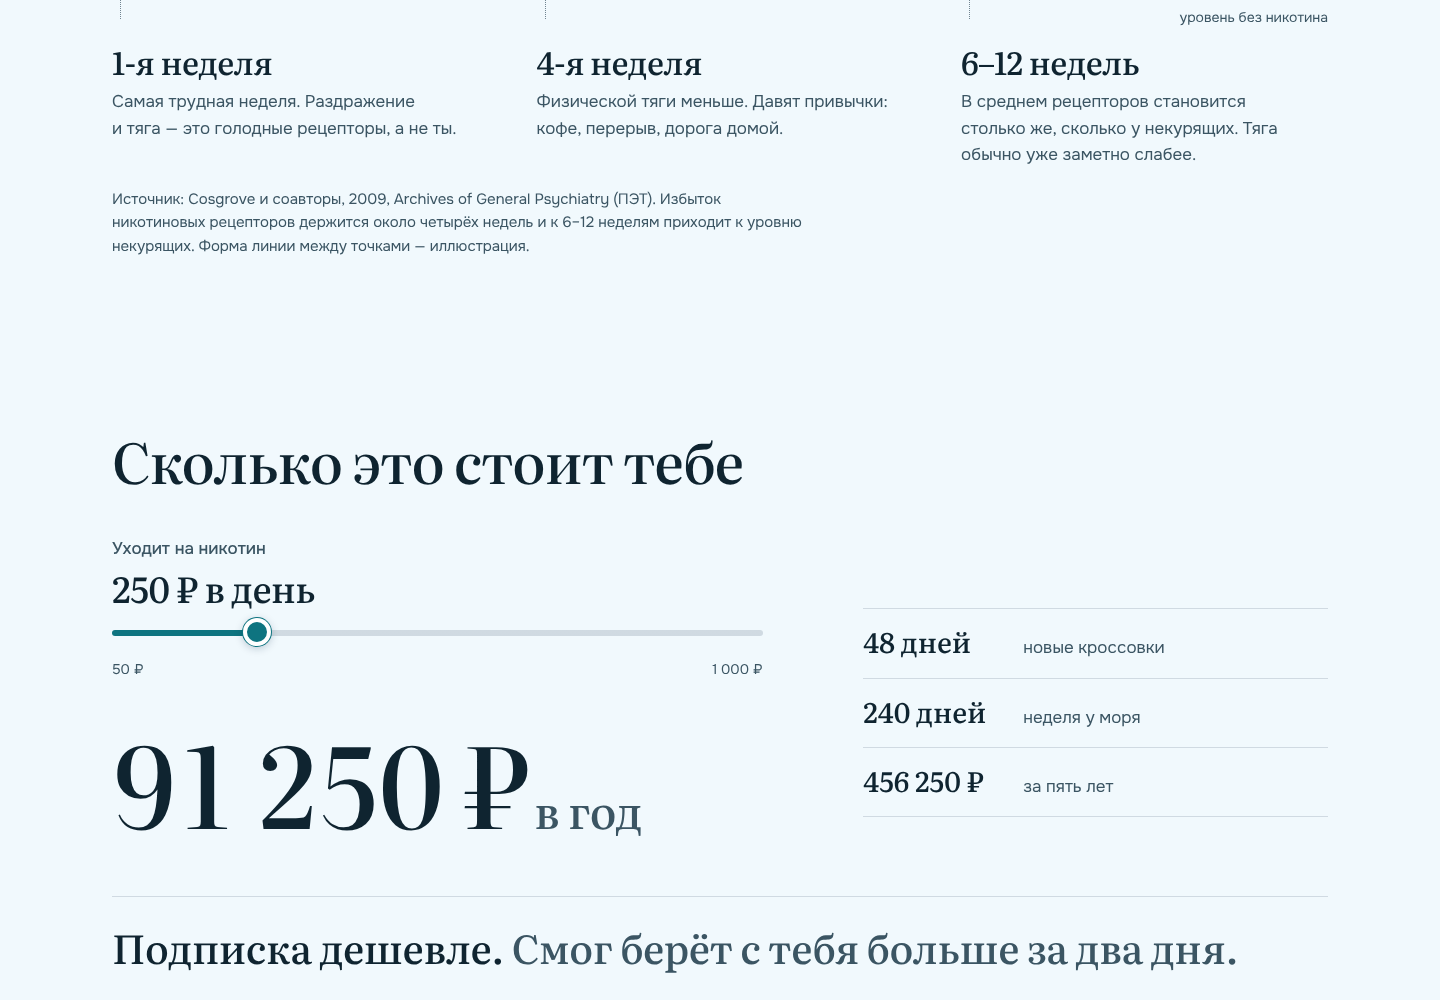
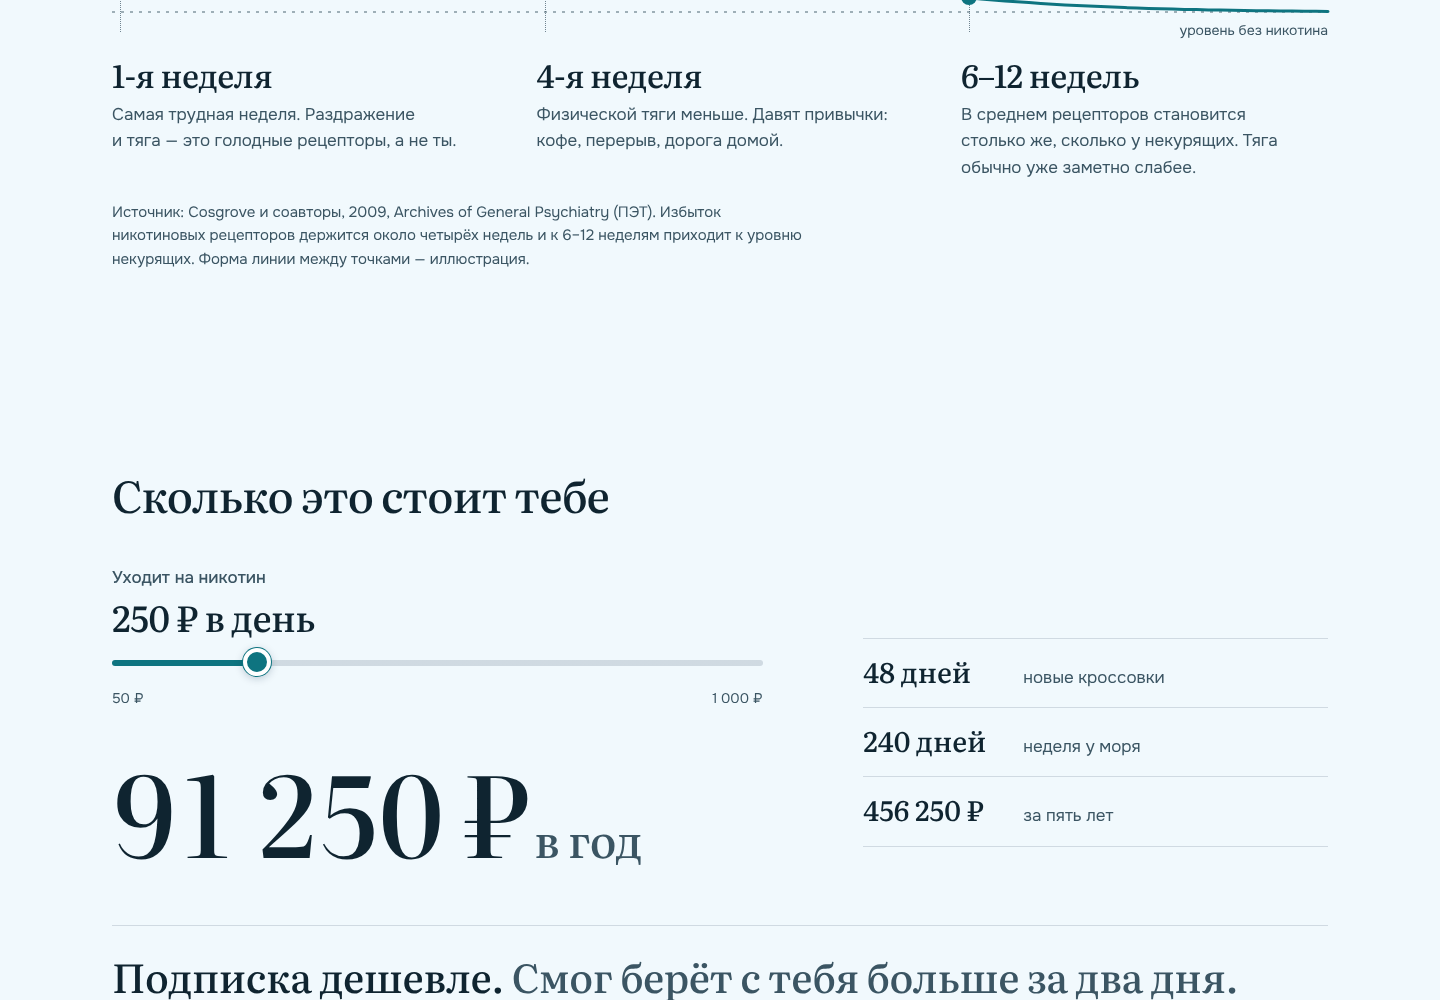
v9: round 6 polish (price card presence, feature checks, stronger selected option, honest storage line)
Claude-Session: https://claude.ai/code/session_01CKqe4UyzFgn5AFv8yWGEaJ

diff --git a/design/directions/v9.html b/design/directions/v9.html
@@ -241,7 +241,7 @@ input[type=range]:focus-visible::-moz-range-thumb{box-shadow:0 0 0 2px var(--sky
 
 /* ── Волна ── */
 .calm{color:var(--calm-text);position:relative;background:linear-gradient(in oklab 180deg,var(--storm-top),var(--storm-low));padding-block:var(--sy)}
-.calm .sub{color:var(--calm-muted)}.calm .src{color:color-mix(in srgb,var(--calm-text) 80%,transparent);font-size:1rem}
+.calm .sub{color:var(--calm-muted)}.calm .src{color:color-mix(in srgb,var(--calm-text) 90%,transparent);font-size:1rem}
 .wave-head{display:grid;gap:1.25rem}.wave-head .sub{max-width:34rem}
 .try{display:inline-flex;align-items:center;gap:.5rem;font-size:.9375rem;font-weight:500;color:var(--calm-muted);margin-bottom:1rem}
 .try::before{content:"";width:.5rem;height:.5rem;border-radius:50%;background:var(--calm-line)}
@@ -323,7 +323,7 @@ input[type=range]:focus-visible::-moz-range-thumb{box-shadow:0 0 0 2px var(--sky
 
 
 /* ── Цена ── */
-section[aria-labelledby="p-h"]{background:color-mix(in srgb,var(--act) 7%,transparent);border-radius:2rem;max-width:calc(76rem + 2 * clamp(1.25rem,4vw,3rem));margin-inline:auto}
+section[aria-labelledby="p-h"]{background:color-mix(in srgb,var(--act) 7%,transparent);box-shadow:0 28px 64px -36px rgba(14,116,128,.4),inset 0 0 0 1px color-mix(in srgb,var(--act) 14%,transparent);border-radius:2rem;max-width:calc(76rem + 2 * clamp(1.25rem,4vw,3rem));margin-inline:auto}
 .price{display:grid;grid-template-columns:minmax(0,5fr) minmax(0,6fr);gap:2.5rem clamp(2.5rem,6vw,6rem);align-items:start}
 .amount{margin-top:1.5rem;font:500 clamp(3.25rem,6vw,5rem)/1 var(--f-display);letter-spacing:-.03em;font-variant-numeric:lining-nums}
 .amount small{font-size:max(1rem,.3em);letter-spacing:0;color:var(--muted);margin-left:.25em}
@@ -334,6 +334,7 @@ section[aria-labelledby="p-h"]{background:color-mix(in srgb,var(--act) 7%,transp
 .gets span{color:var(--muted)}
 .terms{color:var(--muted);font-size:1rem;margin-top:1.25rem;max-width:30rem}
 .price .btn{margin-top:1.75rem}
+.gets b::before{content:"✓";color:var(--act);margin-right:.5rem;font-weight:700}
 .perday{margin-top:.9rem;color:var(--muted);font-size:1.0625rem}
 .price .amount{font-size:clamp(4.5rem,9vw,7.5rem);margin-top:1rem}
 
@@ -410,7 +411,7 @@ dialog.plan.in::backdrop{background:rgba(6,36,63,.28)}
 .opt .mk{width:1.25rem;height:1.25rem;border-radius:50%;border:1.5px solid var(--control);flex:none;display:grid;place-items:center;transition:border-color .15s ease,background-color .15s ease}
 .opt[role="checkbox"] .mk{border-radius:.35rem}
 .opt .mk svg{width:.8rem;height:.8rem;color:var(--act-text);opacity:0;transition:opacity .12s ease}
-.opt[aria-checked="true"]{border-color:var(--act);background:color-mix(in oklab,var(--act) 8%,transparent)}
+.opt[aria-checked="true"]{border-color:var(--act);box-shadow:inset 0 0 0 1px var(--act);background:color-mix(in oklab,var(--act) 14%,transparent)}
 .opt[aria-checked="true"] .mk{border-color:var(--act);background:var(--act)}
 .opt[aria-checked="true"] .mk svg{opacity:1}
 .opt[aria-checked="true"] .mk{animation:mkpop .18s var(--ease-out)}@keyframes mkpop{from{scale:.88}to{scale:1}}
@@ -430,7 +431,7 @@ dialog.plan.in::backdrop{background:rgba(6,36,63,.28)}
 .pl-foot .btn[hidden]{display:none}
 .pl-foot .btn.soon{background:transparent;color:var(--text);box-shadow:inset 0 0 0 1.5px var(--control)}
 .pl-msg{min-height:1.4rem;font-size:.875rem;color:var(--muted);text-align:center;text-wrap:balance}
-.pl-msg:empty::before{content:"Ответы никуда не отправляются."}
+.pl-msg:empty::before{content:"Ответы остаются на этом устройстве."}
 
 @media (max-width:860px){
   html:has(dialog.plan[open]) .hero{--lift:min(7.5rem,14dvh)}
@@ -691,7 +692,6 @@ html:has(dialog.plan[open]) .hero-inner .copy,html:has(dialog.plan[open]) .hero-
     <div class="year-row"><p class="year rv"><span class="num" id="year">91 250 ₽</span><span class="per">в год</span></p>
     <ul class="yl rv" id="year-note"></ul></div>
     <p class="bridge rv" id="bridge"></p>
-    <button class="link cta-inline" id="m-start" type="button">Составить план →</button>
   </div>
 </section>
 
@@ -1169,7 +1169,6 @@ plan.addEventListener('click', e => { if (downOut && outside(e)) closePlan(); do
 document.getElementById('plan-open').addEventListener('click', e => begin('button', e.currentTarget));
 document.getElementById('top-plan').addEventListener('click', e => begin('button', e.currentTarget));
 syncOpeners();
-document.getElementById('m-start').addEventListener('click', e => begin('button', e.currentTarget));
 document.getElementById('start').addEventListener('click', e => begin('button', e.currentTarget));
 document.getElementById('again').addEventListener('click', e => begin('button', e.currentTarget));
 
